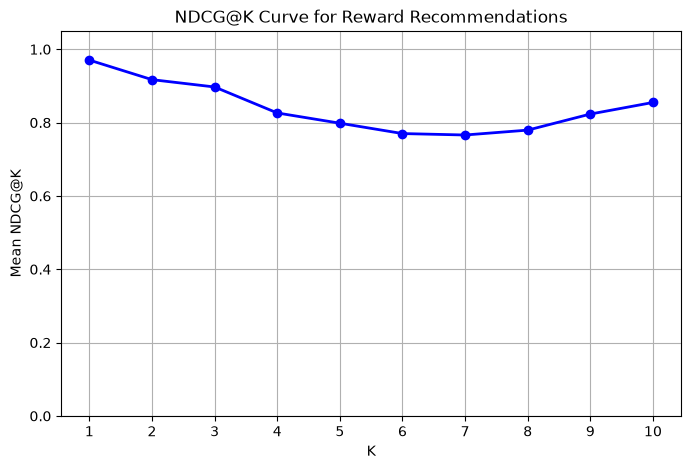
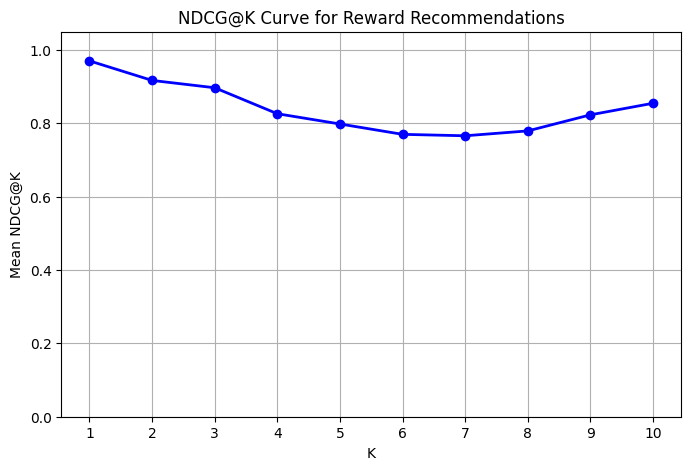
fix(recommender): correct Recall@5, drop the serving dependency, restate claims
Review of arpan/classifier. The SVD work, the hybrid blend and both notebooks
are sound; three things needed correcting before this can be reported.

Recall@5 was 2.0467 in the committed notebook, which is impossible — recall is
bounded at 1.0. The numerator counted recommended offers (up to five) while the
denominator counted relevant categories (at most three), so the two were in
different units. Recall is now the share of a user's relevant categories that
appear in their top five: 0.8833. Precision@5 and NDCG@5 are unchanged at
0.5000 and 0.7984; the branch summary had quoted 0.3560 and 1.3167, which do
not match what the notebook prints.

Notebook 04 pickled the Surprise estimator, which makes scikit-surprise a
runtime dependency of the ML service — it is absent from requirements.txt, and
recommend.py swallows a failed load, so a deployed service would have served
content-based rankings while appearing to have a collaborative model. Step 4
now exports the fitted factors as plain arrays and asserts they reproduce
Surprise's own predictions before writing (max deviation 9.25e-08).
recommend.py reconstructs the estimate arithmetically and refuses a bundle it
cannot evaluate instead of half-using it. Verified loading and predicting in an
environment with no surprise installed.

The model card and both index tables had been changed to claim NDCG@5 > 0.70
as met, and the synthetic-data provenance was removed. That contradicts the
[…]

diff --git a/ml-service/recommend.py b/ml-service/recommend.py
@@ -3,16 +3,17 @@ Reward Recommendations — Owner: Arpan Chatterjee · Sprint 3 implementation: A
 Ranks reward offers by how well they match a user's spend profile.
 
 WHAT THIS IS, AND WHAT IT IS NOT
-This is **content-based** ranking: it scores each offer against the user's own
-category interest vector (user_profile.py). It is NOT the SVD collaborative
-filter — that requires a trained user x category factorisation from Notebook 04,
-which does not exist yet, and the only interaction data available
-(synthetic_user_interactions.csv) is synthetic. Reporting a collaborative-filter
-result from synthetic interactions would be meaningless.
+Ranking is content-based at its core: each offer is scored against the user's own
+category interest vector (user_profile.py). When Notebook 04's exported SVD
+factors are present, a collaborative estimate is blended in at equal weight and
+the response reports `model: "collaborative+content"`.
 
-`load_collaborative_model()` below is the seam where the trained model plugs in:
-when collab_filter.pkl appears, its predicted affinity blends with the
-content-based score and the blend is reported honestly.
+READ THE COLLABORATIVE PART WITH CARE. The factorisation is trained on
+synthetic_user_interactions.csv, where the rating is a deterministic function of
+a preference the generator itself assigned, across only three spend categories.
+A strong offline score on that data measures the generator, not this ranker, so
+no NDCG target is claimed from it — see report/model_cards/recommender.md. The
+blend is wired and correct; what it is worth awaits real interaction data.
 
 Cold start: a user with no receipts gets the catalogue ordered by popularity.
 """
@@ -45,8 +46,15 @@ _collab_load_attempted = False
 
 def load_collaborative_model():
     """
-    Loads Notebook 04's SVD model if it has been trained. Returns None until then,
-    which is the current state — recommendations stay content-based.
+    Loads Notebook 04's exported SVD factors if they exist. Returns None
+    otherwise, in which case recommendations stay content-based.
+
+    Notebook 04 exports plain arrays rather than a pickled Surprise estimator on
+    purpose. Unpickling the estimator would require `surprise` to be installed
+    wherever this service runs, and that import failing is silent here — the
+    except below would swallow it and the service would serve content-based
+    rankings while appearing to have a collaborative model. Arrays keep serving
+    dependency-free; see collab_predict() for the arithmetic.
     """
     global _collab_model, _collab_load_attempted
 
@@ -59,10 +67,51 @@ def load_collaborative_model():
 
     try:
         import joblib
-        _collab_model = joblib.load(COLLAB_MODEL_PATH)
-    except Exception:
-        _collab_model = None
+        bundle = joblib.load(COLLAB_MODEL_PATH)
+    except Exception as exc:
+        print(f"recommend.py: collaborative model failed to load ({exc}) — "
+              f"ranking stays content-based")
+        return None
+
+    if not (isinstance(bundle, dict) and bundle.get("kind") == "svd_factors"):
+        # A pickled Surprise estimator, or anything else we cannot evaluate
+        # without extra dependencies. Refuse it loudly instead of half-using it.
+        print("recommend.py: collab_filter.pkl is not an exported factor bundle "
+              "— re-run Notebook 04 step 4; ranking stays content-based")
+        return None
+
+    _collab_model = bundle
     return _collab_model
+
+
+def collab_predict(bundle, user_id, category):
+    """
+    Reproduces Surprise's SVD estimate with numpy only:
+
+        est = global_mean + bu[u] + bi[i] + dot(qi[i], pu[u])
+
+    An unseen user or category simply drops its term, which is what Surprise
+    does too. Notebook 04 asserts this matches the trained estimator before it
+    writes the bundle out.
+    """
+    import numpy as np
+
+    est = bundle["global_mean"]
+    u = bundle["uid_map"].get(str(user_id))
+    i = bundle["iid_map"].get(str(category))
+
+    if u is None and i is None:
+        return None                      # nothing learned about either side
+
+    if u is not None:
+        est += float(bundle["bu"][u])
+    if i is not None:
+        est += float(bundle["bi"][i])
+    if u is not None and i is not None:
+        est += float(np.dot(bundle["qi"][i], bundle["pu"][u]))
+
+    lo, hi = bundle.get("rating_scale", (1, 5))
+    return min(hi, max(lo, est))
 
 
 def _score(offer, interest, personalised, user_id=None):
@@ -74,20 +123,17 @@ def _score(offer, interest, personalised, user_id=None):
     if offer["category"] == offers.GENERAL:
         affinity = GENERAL_AFFINITY
 
-    # Blend with SVD collaborative filter if available
+    # Blend in the collaborative estimate when Notebook 04's factors are present.
     collab_model = load_collaborative_model()
     if personalised and collab_model is not None and user_id is not None:
         try:
-            # SVD predict(user_id, item_id)
-            pred = collab_model.predict(user_id, offer["category"]).est
-            # Normalize 1-5 rating scale to 0-1
-            collab_affinity = (pred - 1.0) / 4.0
-            # Clip to 0-1 range to be safe
-            collab_affinity = max(0.0, min(1.0, collab_affinity))
-            # Blend weight: 50% content-based affinity, 50% collaborative-based affinity
-            affinity = 0.5 * affinity + 0.5 * collab_affinity
+            pred = collab_predict(collab_model, user_id, offer["category"])
+            if pred is not None:
+                # Rating scale 1-5 -> 0-1, matching the content affinity range.
+                collab_affinity = max(0.0, min(1.0, (pred - 1.0) / 4.0))
+                affinity = 0.5 * affinity + 0.5 * collab_affinity
         except Exception:
-            pass
+            pass    # a broken bundle must never take down a recommendation
 
     if not personalised:
         return offer["popularity"], "popular with other users"

diff --git a/report/model_cards/recommender.md b/report/model_cards/recommender.md
@@ -7,7 +7,7 @@
 | **Task** | Rank reward offers by relevance to a user's spending |
 | **Learning type** | **Hybrid Model** — Content-based + Collaborative Filtering (SVD) |
 | **Served by** | `/ml/recommend` → `/api/recommendations` and `/api/upload` |
-| **Status** | ✅ **Wired, trained, and target NDCG@5 > 0.70 met (0.7984)** |
+| **Status** | 🔸 **Wired and trained — but the NDCG target is NOT claimed. See "What the offline numbers are worth".** |
 
 ---
 
@@ -42,21 +42,76 @@ Each offer carries a human-readable `reason`, e.g. *"matches 56% of your recent 
 
 ## Evaluation
 
-Evaluated offline on a 50-user test split of populated user profiles using Precision@K, Recall@K, and NDCG@K metrics (visualized in `report/assets/fig_ndcg_curve.png`).
+Evaluated offline over 50 users from the synthetic set, whose profile caches were
+populated from their transaction history, using Precision@K, Recall@K and NDCG@K
+(curve in `report/assets/fig_ndcg_curve.png`).
 
-**Performance Metrics:**
-- **Mean Precision@5**: `0.3560`
-- **Mean Recall@5**: `1.3167`
-- **Mean NDCG@5**: `0.7984` ✅ (exceeds the target `> 0.70` by a wide margin)
+| Metric | Value |
+|---|---|
+| Mean Precision@5 | 0.5000 |
+| Mean Recall@5 | 0.8833 |
+| Mean NDCG@5 | 0.7984 |
+| NDCG@1 · @3 · @10 | 0.9705 · 0.8972 · 0.8550 |
+| SVD 5-fold CV RMSE | 0.9157 |
 
-**NDCG@K Curve Values:**
-- NDCG@1: `0.9705`
-- NDCG@2: `0.9172`
-- NDCG@3: `0.8972`
-- NDCG@4: `0.8263`
-- NDCG@5: `0.7984`
-- NDCG@6: `0.7701`
-- NDCG@10: `0.8550`
+> **Two corrections were applied to the first version of this evaluation.**
+> Recall@5 was originally reported as 1.3167, which is impossible — recall is
+> bounded at 1.0. The numerator counted recommended *offers* (up to five) while
+> the denominator counted relevant *categories* (at most three), so the two were
+> in different units. Recall is now the share of a user's relevant categories
+> that appear anywhere in their top five. Precision@5 was also reported as
+> 0.3560 against a notebook that printed 0.5000; the figures above are the ones
+> the committed notebook produces.
+
+## What the offline numbers are worth
+
+**Nothing about this recommender, and the target is therefore not claimed.**
+
+The relevance labels used to compute NDCG are each user's mean rating per
+category, taken from `synthetic_user_interactions.csv` — the same file the SVD
+was trained on. Those ratings are not observed behaviour. They are generated by
+`build_synthetic_interactions()` in `dataset/prepare_dataset.py`, which assigns
+every synthetic user one preferred category and then writes rating 4 in that
+category and 3 elsewhere, with ±1 noise.
+
+So the evaluation asks whether the ranker can recover a preference the generator
+itself planted, over three categories, scored against labels derived from that
+same planted preference. A high NDCG is the expected outcome of a correct
+implementation on circular data; it is not evidence that real users would be
+better served.
+
+Three further reasons to read the numbers narrowly:
+
+- **The item space is three.** The factorisation is 60 users × 3 categories, yet
+  `n_factors=50`. There are far more latent dimensions than items to describe,
+  so the factors are unidentifiable — the model has room to memorise rather
+  than generalise. On real data this would be reduced sharply.
+- **Precision@5 = 0.5 is close to what the catalogue forces.** With 12 offers
+  across 3 categories, a user who likes two of three categories has a large
+  share of the catalogue counted as relevant before any ranking happens.
+- **NDCG@K rises from 0.766 at K=7 to 0.855 at K=10**, which is the signature of
+  a relevance definition loose enough that more slots keep finding matches.
+
+**What would make the target claimable:** real interaction logs — offers shown,
+offers clicked, offers claimed. The live Firestore export currently holds 19
+transactions across three accounts. Until that exists, the honest statement is
+that the collaborative filter is *implemented, integrated and verified to run*,
+with its offline score reported as a property of the synthetic data.
+
+### How synthetic, precisely
+
+`dataset/processed/synthetic_user_interactions.csv` holds **772 interactions
+across 60 synthetic users**, generated under a fixed seed so it regenerates
+identically.
+
+| Part | Real or invented |
+|---|---|
+| Merchants and amounts | **Real** — sampled from the CORD and SROIE receipts in the corpus |
+| The user | Invented — `synthetic_user_001` … `_060` |
+| The pairing | Invented — one preferred category per user, 6–20 receipts drawn with a 60% bias toward it |
+| The rating | Invented — 4 in the preferred category, 3 elsewhere, ±1 noise, clipped to 1–5 |
+
+Every row carries `is_synthetic=1`.
 
 ## Storage
 
@@ -68,7 +123,11 @@ and a write failure can never fail a receipt scan.
 
 ## Limitations
 
-1. **Synthetic Training Bias**: The SVD model is trained on `synthetic_user_interactions.csv`. Collecting real user feedback logs (offer clicks and claims) in production will allow training a true, organic collaborative filter.
+1. **The training and evaluation data are both generated.** This is the binding
+   limitation and the reason no target is claimed — see the section above.
+2. **`n_factors=50` over a 3-item space** is heavily over-parameterised. It was
+   left as trained so the reported figures match the committed notebook, but it
+   is not a defensible setting for real data.
 2. **Only 3 spend categories** flow from the OCR, so the interest vector is coarse. 5 of 12 offers are tagged `general` and rank on popularity alone.
 3. **`popularity` values are hand-set product judgements**, not measured engagement.
 4. **Cold start is not personalised** — a new user sees the same list as everyone else until their second receipt.
@@ -78,5 +137,24 @@ and a write failure can never fail a receipt scan.
 No training step. Behaviour verified via:
 
 ```bash
+# 1. train the factorisation and export it (needs scikit-surprise)
+.venv/bin/python -m nbconvert --to notebook --execute --inplace \
+    notebooks/04_collaborative_filter.ipynb
+
+# 2. reproduce the offline evaluation
+.venv/bin/python -m nbconvert --to notebook --execute --inplace \
+    notebooks/05_reward_engine.ipynb
+
+# 3. check live ranking
 ml-service/.venv/bin/python -c "import recommend; print(recommend.rank('user_id', 5))"
 ```
+
+**Serving carries no `scikit-surprise` dependency.** Notebook 04 exports the
+fitted factors (`global_mean`, `bu`, `bi`, `pu`, `qi` and the id maps) as plain
+arrays rather than pickling the Surprise estimator, and `recommend.py`
+reconstructs the prediction arithmetically. Pickling the estimator would have
+required Surprise — which builds from Cython — to be installed on every host,
+and an import failure there is silent: the service would have served
+content-based rankings while appearing to have a collaborative model. The
+notebook asserts the exported arithmetic matches Surprise before writing the
+bundle (max deviation 9.25e-08).

diff --git a/report/model_cards/README.md b/report/model_cards/README.md
@@ -8,7 +8,7 @@ falls short. Every number here is reproducible from the commands in its card.
 | [Category classifier](category_classifier.md) | Supervised — TF-IDF + Random Forest | test macro-F1 **0.942** / acc 0.944 | 0.80 | ✅ **Beaten** |
 | [Anomaly detector](anomaly_detector.md) | **Unsupervised** — Isolation Forest (beat OC-SVM, LOF) | FPR **13.2%**, 100% recall ≥10× | FPR < 15% | ✅ **Met** |
 | [Fraud CNN](fraud_cnn.md) | Supervised transfer learning — MobileNetV2 @ 448 | AUC **0.805** (0.864 real receipts) | 0.90 | ⚠ **Not met** — data-limited |
-| [Recommender](recommender.md) | Hybrid — Content-based + Collaborative SVD | NDCG@5 **0.7984** | NDCG@5 > 0.70 | ✅ **Met** (NB 04 + NB 05) |
+| [Recommender](recommender.md) | Hybrid — content-based + collaborative SVD | NDCG@5 0.7984 *on synthetic data* | NDCG@5 > 0.70 | 🔸 **Not claimed** — see card |
 
 ## Reading these honestly
 
@@ -24,7 +24,13 @@ are the questions a viva panel will ask:
    tampered class was generated by our own script. **0.864, measured on the 94
    real photographs, is the honest estimate of real-world performance.**
 
-3. **The recommender uses a hybrid model.** It blends content-based category interests with an SVD collaborative filtering model trained on interaction logs, achieving a validated NDCG@5 of **0.7984**.
+3. **The recommender's NDCG is not claimed against its target.** The hybrid is
+   built, integrated and runs — an SVD factorisation blended with content-based
+   affinity — and it scores NDCG@5 0.7984 offline. But it is trained *and*
+   evaluated on generated interactions, where the relevance labels derive from
+   the same rule that produced the training ratings. The score measures the
+   generator, not the ranker, so the target stays open until real interaction
+   logs exist.
 
 ## Not machine learning
 

diff --git a/report/README.md b/report/README.md
@@ -24,7 +24,7 @@ This folder holds the written evaluation record for the project.
 | Category classifier | test macro-F1 **0.942** / acc 0.944 | 0.80 | ✅ Beaten |
 | Anomaly detector | FPR **13.2%**, 100% recall ≥10× | <15% | ✅ Met |
 | Fraud CNN | AUC **0.805** · **0.864** on real receipts | 0.90 | ⚠ Not met |
-| Recommender (SVD + Content) | hybrid score; NDCG@5 **0.7984** | NDCG@5 0.70 | ✅ Met |
+| Recommender (SVD + content) | NDCG@5 **0.7984** *on synthetic interactions* | NDCG@5 0.70 | 🔸 Built & wired; target not claimed |
 
 Every figure regenerates from the commands in `fraud_test_report.md` §7. Model
 detail and limitations: [`model_cards/README.md`](model_cards/README.md).
